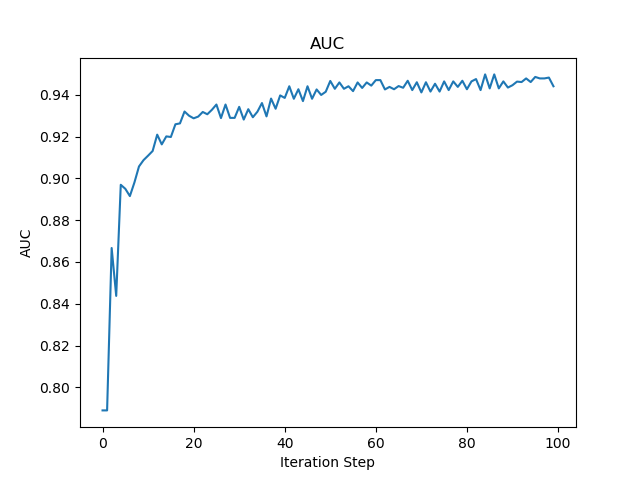
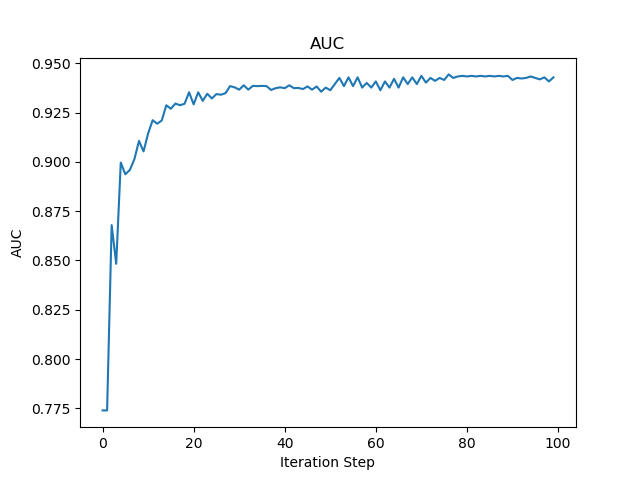
Adaboost trained on some percent of data

diff --git a/AdaBoost_UCI/adaboost_cpercent_crx.py b/AdaBoost_UCI/adaboost_cpercent_crx.py
@@ -4,7 +4,7 @@ from collections import Counter
 from sklearn.model_selection import train_test_split
 from sklearn import preprocessing
 from sklearn.metrics import accuracy_score, auc, roc_curve
-import random
+
 
 class AdaBoost:
 
@@ -16,18 +16,19 @@ class AdaBoost:
         # value if it's a string
         self.preprocess_data()
 
+
     @staticmethod
     def get_data(names):
-        data_frame = pd.read_csv('./data/vote/vote.data', sep='\t')
+        data_frame = pd.read_csv('./data/crx/crx.data', sep='\t')
 
         data_frame.columns = names
         labels = data_frame['label'].values
 
         # replace labels for adaboost
-        # replace d with 1
-        labels[labels == 'd'] = 1
-        # replace r with -1
-        labels[labels == 'r'] = -1
+        # replace + with 1
+        labels[labels == '+'] = 1
+        # replace - with -1
+        labels[labels == '-'] = -1
 
         data_frame = data_frame.drop('label', axis=1)
         return data_frame, np.array(labels, dtype='float64')
@@ -39,8 +40,18 @@ class AdaBoost:
             indices = self.data[col][self.data[col] == '?'].index.values
             bad_df = self.data.index.isin(indices)
 
-            max_occ = max(Counter(self.data[~bad_df][col]))
-            self.data.at[bad_df, col] = max_occ
+            try:
+                first = float(self.data[~bad_df][col][0])
+            except:
+                first = str(self.data[~bad_df][col][0])
+
+            if type(first) == type(1.0):
+                max_val = self.data[~bad_df][col].astype('float').max()
+                self.data.at[bad_df, col] = max_val
+                self.data[col] = self.data[col].astype(float)
+            else:
+                max_occ = max(Counter(self.data[~bad_df][col]))
+                self.data.at[bad_df, col] = max_occ
 
         self.data = self.data.values
 
@@ -52,8 +63,22 @@ class AdaBoost:
         train_data, test_data, train_label, test_label = train_test_split(self.data, self.labels, test_size=0.25,
                                                                           random_state=10)
 
-        # train for the training data
-        models, summary = AdaBoost.train(train_data, train_label, test_data, test_label, num_weak_learners)
+        c_values = [5, 10, 15, 20, 25, 30, 50, 80]
+
+        for c in c_values:
+
+            print('\n\nTraining for c = {}\n'.format(c))
+
+            # pick random data points from training set while keeping test set fixed
+            num_cs = (c * len(train_data)) // 100
+
+            rand_idx = np.random.randint(len(train_data), size=num_cs)
+
+            new_train_data = train_data[rand_idx, :]
+            new_train_label = train_label[rand_idx]
+
+            # train for the training data
+            models, summary = AdaBoost.train(new_train_data, new_train_label, test_data, test_label, num_weak_learners)
 
     @staticmethod
     def train(train_data, train_label, test_data, test_label, num_weak_learners):
@@ -135,19 +160,25 @@ class WeakLearner:
 
         max_diff = -float('inf')
 
-        # pick random feature
-        feature = random.randint(0, dataset.shape[1] - 1)
+        # check each threshold, feature pair to find the best one
+        for feature in range(dataset.shape[1]):
+            for threshold in thresholds[feature]:
 
-        # pick random threshold
-        threshold = np.random.choice(thresholds[feature])
+                # build the weak learner
+                tree = Node(feature, threshold)
 
-        # build the weak learner
-        tree = Node(feature, threshold)
+                # find error for this weak learner
+                error = WeakLearner.predict(tree, dataset, labels, wts)
 
-        # find error for this weak learner
-        tree.error = WeakLearner.predict(tree, dataset, labels, wts)
+                diff = np.abs(0.5 - error)
 
-        return tree
+                if diff > max_diff:
+                    max_diff = diff
+                    tree.error = error
+                    tree.max_diff = max_diff
+                    best_tree = tree
+
+        return best_tree
 
     @staticmethod
     def predict(model, test_data, labels, wts):
@@ -179,9 +210,7 @@ class WeakLearner:
 
 
 # EXECUTION
-random.seed(2)
 
-column_names = ['A0', 'A1', 'A2', 'A3', 'A4', 'A5', 'A6', 'A7', 'A8', 'A9', 'A10', 'A11', 'A12', 'A13', 'A14', 'A15', 'label']
-
-ada_boost = AdaBoost(column_names)
-ada_boost.fit(num_weak_learners=100)
+column_names = ['A0', 'D0', 'D1', 'A1', 'A2', 'A3', 'A4', 'D2', 'A5', 'A6', 'D3', 'A7', 'A8', 'D4', 'D5', 'label']
+adaboost = AdaBoost(column_names)
+adaboost.fit(num_weak_learners=100)

diff --git a/AdaBoost_UCI/adaboost_cpercent_vote.py b/AdaBoost_UCI/adaboost_cpercent_vote.py
@@ -6,6 +6,7 @@ from sklearn import preprocessing
 from sklearn.metrics import accuracy_score, auc, roc_curve
 import random
 
+
 class AdaBoost:
 
     def __init__(self, column_names):
@@ -52,8 +53,22 @@ class AdaBoost:
         train_data, test_data, train_label, test_label = train_test_split(self.data, self.labels, test_size=0.25,
                                                                           random_state=10)
 
-        # train for the training data
-        models, summary = AdaBoost.train(train_data, train_label, test_data, test_label, num_weak_learners)
+        c_values = [5, 10, 15, 20, 25, 30, 50, 80]
+
+        for c in c_values:
+
+            print('\n\nTraining for c={}\n'.format(c))
+
+            # pick random data points from training set while keeping test set fixed
+            num_cs = (c * len(train_data)) // 100
+
+            rand_idx = np.random.randint(len(train_data), size=num_cs)
+
+            new_train_data = train_data[rand_idx, :]
+            new_train_label = train_label[rand_idx]
+
+            # train for the training data
+            models, summary = AdaBoost.train(new_train_data, new_train_label, test_data, test_label, num_weak_learners)
 
     @staticmethod
     def train(train_data, train_label, test_data, test_label, num_weak_learners):
@@ -75,7 +90,7 @@ class AdaBoost:
             error = model.error
 
             # calculate alpha for this model
-            model.alpha = 0.5 * np.log((1 - error) / (error + 1e-10))
+            model.alpha = 0.5 * np.log((1 - error) / (error + 1e-5))
 
             preds = np.ones(np.shape(train_label))
             preds[train_data[:, model.feature] <= model.threshold] = -1
@@ -184,4 +199,4 @@ random.seed(2)
 column_names = ['A0', 'A1', 'A2', 'A3', 'A4', 'A5', 'A6', 'A7', 'A8', 'A9', 'A10', 'A11', 'A12', 'A13', 'A14', 'A15', 'label']
 
 ada_boost = AdaBoost(column_names)
-ada_boost.fit(num_weak_learners=100)
+ada_boost.fit(num_weak_learners=500)

diff --git a/EM/coin_flip.py b/EM/coin_flip.py
@@ -4,7 +4,7 @@ from collections import Counter
 
 class CoinFlipEM:
 
-    def __init__(self, m=1000, k=10, p=0.8, r=0.3, pi=0.5):
+    def __init__(self, m=1000, k=10, p=0.7, r=0.2, pi=0.5):
         self.p = p
         self.r = r
         self.data, self.label = CoinFlipEM.generate_data(m, k, p, r, pi)
